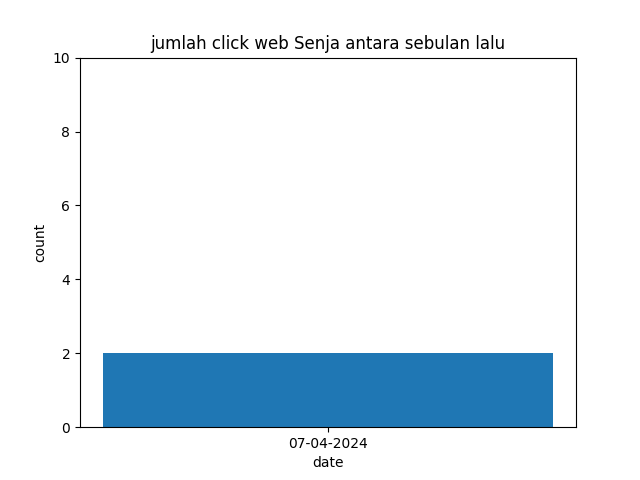
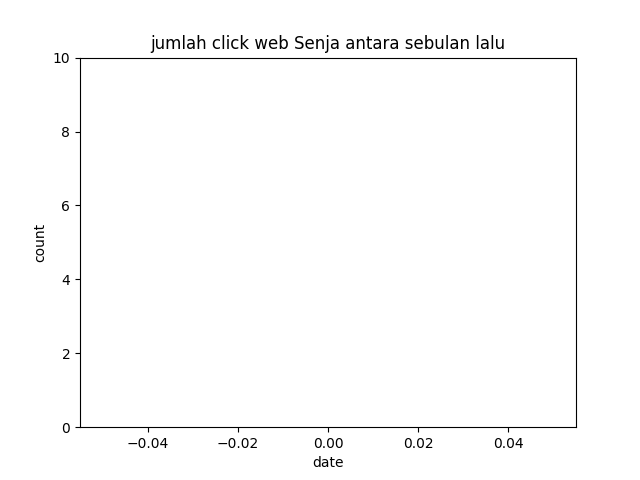
merapikan

Changed region(s): [[0.1562, 0.7188, 0.875, 0.9375]]

diff --git a/app/view/chart.py b/app/view/chart.py
@@ -15,7 +15,6 @@ def getChartAll():
         indexX = [link.date for link in links]
         indexY = [link.link_count for link in links]
         plt.bar(indexX,indexY)
-        # plt.plot(indexX,indexY, marker='o')
         plt.gca().set_ylim(0, range)
         plt.xlabel('date')
         plt.ylabel('count')
@@ -34,7 +33,6 @@ def getChartCustomAll(date1, date2, title):
         indexX = [link.date for link in links]
         indexY = [link.link_count for link in links]
         plt.bar(indexX,indexY)
-        # plt.plot(indexX,indexY, marker='o')
         plt.gca().set_ylim(0, range)
         plt.xlabel('date')
         plt.ylabel('count')
@@ -51,20 +49,21 @@ def getChartWeekAll():
     daysAgo = today + timedelta(days=-7)
     daysAgoStr = daysAgo.strftime('%Y-%m-%d')
     todayStr = today.strftime('%Y-%m-%d')
-    getChartCustomAll(date1=todayStr,date2=daysAgoStr,title='seminggu lalu')
+    getChartCustomAll(date1=daysAgoStr,date2=todayStr,title='seminggu lalu')
 
 def getChartMonthAll():
-    date = getMonthDate()
-    todayStr = date[0]
-    daysAgoStr = date[1]
-    getChartCustomAll(date1=todayStr,date2=daysAgoStr,title='sebulan lalu')
+    today = datetime.now().date()
+    daysAgo = today + timedelta(days=-365)
+    daysAgoStr = daysAgo.strftime('%Y-%m-%d')
+    todayStr = today.strftime('%Y-%m-%d')
+    getChartCustomAll(date1=daysAgoStr,date2=todayStr,title='sebulan lalu')
 
 def getChartYearAll():
     today = datetime.now().date()
     daysAgo = today + timedelta(days=-365)
     daysAgoStr = daysAgo.strftime('%Y-%m-%d')
     todayStr = today.strftime('%Y-%m-%d')
-    getChartCustomAll(date1=todayStr,date2=daysAgoStr,title='setahun lalu')
+    getChartCustomAll(date1=daysAgoStr,date2=todayStr,title='setahun lalu')
 
 def getChartProduct(id):
     product = Product.query.filter_by(id=int(id)).first()
@@ -77,7 +76,6 @@ def getChartProduct(id):
         indexX = [link.date for link in links]
         indexY = [link.link_count for link in links]
         plt.bar(indexX,indexY)
-        # plt.plot(indexX,indexY, marker='o')
         plt.gca().set_ylim(0, range)
         plt.xlabel('date')
         plt.ylabel('count')
@@ -118,26 +116,28 @@ def getChartWeek(id):
     daysAgo = today + timedelta(days=-7)
     daysAgoStr = daysAgo.strftime('%Y-%m-%d')
     todayStr = today.strftime('%Y-%m-%d')
-    getChartCustom(date1=todayStr,date2=daysAgoStr,title='seminggu lalu', id=id)
+    getChartCustom(date1=daysAgoStr,date2=todayStr,title='seminggu lalu', id=id)
 
 def getChartMonth(id):
-    date = getMonthDate()
-    todayStr = date[0]
-    daysAgoStr = date[1]
-    print(daysAgoStr)
-    print(todayStr)
-    getChartCustom(date1=todayStr,date2=daysAgoStr,title='sebulan lalu',id=id)
+    # date = getMonthDate()
+    # todayStr = date[0]
+    # daysAgoStr = date[1]
+    today = datetime.now().date()
+    daysAgo = today + timedelta(days=-365)
+    daysAgoStr = daysAgo.strftime('%Y-%m-%d')
+    todayStr = today.strftime('%Y-%m-%d')
+    getChartCustom(date1=daysAgoStr,date2=todayStr,title='sebulan lalu',id=id)
 
 def getChartYear(id):
     today = datetime.now().date()
     daysAgo = today + timedelta(days=-365)
     daysAgoStr = daysAgo.strftime('%Y-%m-%d')
     todayStr = today.strftime('%Y-%m-%d')
-    getChartCustom(date1=todayStr,date2=daysAgoStr,title='setahun lalu', id=id)
+    getChartCustom(date1=daysAgoStr,date2=todayStr,title='setahun lalu', id=id)
 
-def getMonthDate():
-    today = datetime.now().date()
-    month = today.month - 1 
-    year = today.year
-    last = calendar.monthrange(year, month)[1]
-    return [f'{year}-{month:02d}-01',f'{year}-{month:02d}-{last}']
+# def getMonthDate():
+#     today = datetime.now().date()
+#     month = today.month - 1 
+#     year = today.year
+#     last = calendar.monthrange(year, month)[1]
+#     return [f'{year}-{month:02d}-01',f'{year}-{month:02d}-{last}']

diff --git a/app/config.py b/app/config.py
@@ -1,7 +1,7 @@
 class Config:
     SQLALCHEMY_DATABASE_URI= 'sqlite:///livinghome.db'
-    UPLOAD_FOLDER= "static/upload"
-    IMAGE_FOLDER= "static/asset/img"
-    CHART_FOLDER= "static/asset/img/chart"
-    ICON_FOLDER= "static/asset/icon"
+    UPLOAD_FOLDER= "app/static/upload"
+    IMAGE_FOLDER= "app/static/asset/img"
+    CHART_FOLDER= "app/static/asset/img/chart"
+    ICON_FOLDER= "app/static/asset/icon"
     SECRET_KEY= "mengaji"

diff --git a/app/app.py b/app/app.py
@@ -14,6 +14,3 @@ matplotlib.use('Agg')
 
 with app.app_context():
     db.create_all()
-
-if __name__ == "__main__":
-    app.run(host='0.0.0.0', port=5127, debug=True)

diff --git a/app.py b/app.py
@@ -1,0 +1,4 @@
+from app.app import app
+
+if __name__ == "__main__":
+    app.run(host='0.0.0.0', port=5127, debug=True)

diff --git a/README.md b/README.md
@@ -1,0 +1,51 @@
+# LivingHome
+
+> python + flask + sqlite
+
+## Technology stack
+
+- Python
+- Flask
+- PostgreSQL
+
+## Init
+
+### 1. Create venv
+
+```bash
+python -m venv venv
+```
+
+### 2. Activate venv
+
+for windows :
+
+```bash
+venv\Scripts\activate
+```
+
+for linux :
+
+```bash
+venv\lib\activate
+```
+
+### 6. Install requirements
+
+```bash
+pip install -r requirements.txt
+```
+
+## Run
+
+```bash
+python app.py
+```
+
+## Team
+
+- Muhammad Saiful Arifin (09020622035)
+- M Ravly Dwi Septian (09040622065)
+- Mochammad Nasruddin Zuhri (09040622064)
+- Nur Fatiq (09040622071)
+- M Ulil Azmi (09050622083)
